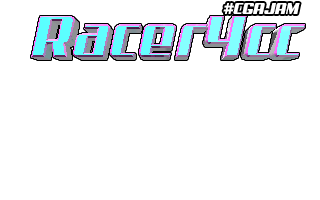
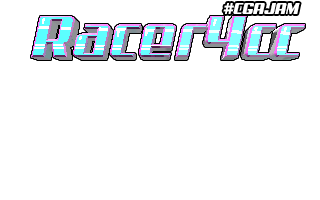
Added best time and best lap time

diff --git a/cgajam_racer.cpp b/cgajam_racer.cpp
@@ -79,6 +79,8 @@ float torusAngle = 0.0;
 
 // Hud stuff
 Texture2D titleScreenTex;
+Texture2D titleStarText;
+Texture2D titleStar;
 SpriteFont jupiterFont;
 
 enum {
@@ -87,6 +89,9 @@ enum {
     //GameMode_GAME_OVER
 };
 int gameMode = GameMode_TITLE;
+
+float bestLapTime = 99999.0;
+float bestTime = 99999.0;
 
 // ===================================================================================
 //  Dither Effect
@@ -291,17 +296,51 @@ void DrawTextOutlined( char *text, float x, float y, int fontSize, Color color, 
 
 void DrawHud( CarModel *carSim, Rectangle screenRect, Color color )
 {
+    char buff[200];
+
     if (gameMode == GameMode_TITLE) {
 
         // DrawTextOutlined( (char*)"CGA Racer", 
         // screenRect.x + (screenRect.width/2.0), 
         // screenRect.y + 50, 3, color, JUSTIFY_CENTER );
+        
+        static float starAngle = 0.0;
+        starAngle += 0.3;
+        Vector2 starPos = Vector2Make( screenRect.width - 100, (screenRect.height/2)-50 );
+            
+        Rectangle rect = { 0, 0, 128, 128 };
+        Rectangle destRect = { starPos.x + 64, starPos.y+64, 128, 128 };
+        DrawTexturePro(titleStar, rect, destRect, Vector2Make( 64, 64 ),  
+                    starAngle, color );
+
+        DrawTextureEx(titleStarText, starPos, 0.0, 1.0, color );
+
+        sprintf(buff, "%d:%02d", (int)(floor(bestTime / 60.0f)), (int)(fmod(bestTime, 60.0f)) );    
+        if (bestTime >= 99990.0) {
+            sprintf( buff, "?:??");
+        }
+        DrawTextOutlined( buff, starPos.x + 70, starPos.y+45, 1, color, JUSTIFY_RIGHT );
+
+        sprintf(buff, "%d:%02d", (int)(floor(bestLapTime / 60.0f)), (int)(fmod(bestLapTime, 60.0f)) );    
+        if (bestLapTime >= 99990.0) {
+            sprintf( buff, "?:??");
+        }
+        DrawTextOutlined( buff, starPos.x + 70, starPos.y+85, 1, color, JUSTIFY_RIGHT );
+
+
         DrawTexture( titleScreenTex, 0, 0, color );
 
-
         DrawTextOutlined( (char*)"Press SPC to Play", 
-        screenRect.x + (screenRect.width/2.0), 
-        screenRect.y + 70, 1, color, JUSTIFY_CENTER );
+            screenRect.x + (screenRect.width/2.0) -40, 
+            screenRect.y + 70, 1, color, JUSTIFY_CENTER );
+
+        DrawTextOutlined( (char*)"by Joel Davis  ~@joeld42", 
+            screenRect.x + (screenRect.width/2.0), 
+            screenRect.y + screenRect.height - 40, 1, color, JUSTIFY_CENTER );
+
+        DrawTextOutlined( (char*)"Soundtrack by Scott DeVaney", 
+            screenRect.x + (screenRect.width/2.0), 
+            screenRect.y + screenRect.height - 20, 1, color, JUSTIFY_CENTER );
 
 
     } else {
@@ -314,8 +353,7 @@ void DrawHud( CarModel *carSim, Rectangle screenRect, Color color )
                 screenRect.y + screenRect.height - 50, 1, color.r==0?color:(Color)CGA_MAGENTA, JUSTIFY_CENTER );
         }
 
-        // Speed indicator
-        char buff[200];
+        // Speed indicator        
         sprintf(buff, "%3.0f", carSim->_speedMph );
         DrawTextOutlined( buff, screenRect.x + 10, screenRect.y + screenRect.height - 40, 2, color, JUSTIFY_LEFT );
 
@@ -614,6 +652,9 @@ int main()
 
     titleScreenTex = LoadTexture("titlescreen.png");
 
+    titleStar = LoadTexture("star.png");
+    titleStarText = LoadTexture("starTitleText.png");
+
     int grabPointNdx = 0;
     bool grabbed = false;
 
@@ -877,6 +918,11 @@ int main()
                         printf("Hit Lap trigger start!\n");
                         lapTriggerStartHit = true;
                         if (lapTriggerHalfHit) {
+
+                             if (carSim._lapTime < bestLapTime) {
+                                bestLapTime = carSim._lapTime;
+                            }
+
                             // already hit the half trigger, we're ending the lap now
                             currentLap++;
                             carSim._lapTime = 0.0;
@@ -884,6 +930,11 @@ int main()
                             lapTriggerHalfHit = false;
 
                             if (currentLap==3) {
+
+                                if (carSim._raceTime < bestTime) {
+                                    bestTime = carSim._raceTime;
+                                }
+
                                 // Done with three laps!
                                 // give a few seconds of transition out
                                 gameEndCountdown = 2.0f;
@@ -1003,7 +1054,7 @@ int main()
             End3dMode();
 
             // MATERIAL pass
-            DrawHud( &carSim, pixelRect, (Color){ 0, 0, 0 });
+            DrawHud( &carSim, pixelRect, (Color){ 0, 0, 0, 255 });
 
             EndTextureMode();            
             
